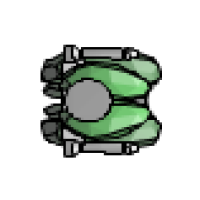
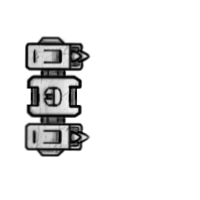
исправил ошибки квеста и нотификаций вывел интерфейс трюма в инерфейс склада на базе новые спрайты орудий

diff --git a/static/assets/components/chat/NotifyBlock.js b/static/assets/components/chat/NotifyBlock.js
@@ -2,19 +2,48 @@ function FillNotifyBlock(data) {
     let notifyBlock = document.getElementById('notifyBlock');
 
     for (let i in data.missions) {
-        addMission(notifyBlock, data.missions[i])
+        addMission(notifyBlock, data.missions[i], null, 0, data.missions[i].uuid)
+    }
+
+    for (let i in data.notifys) {
+        if (!document.getElementById(data.notifys[i].uuid)) {
+            if (data.notifys[i].event === "new") {
+                addMission(notifyBlock, data.notifys[i].data, "animation: new 1s linear 1", 1000, data.notifys[i].uuid)
+            }
+        }
     }
 }
 
-function addMission(notifyBlock, mission) {
+function addMission(notifyBlock, mission, animation, time, uuid) {
     notifyBlock.innerHTML += (
-        `<div onmouseover="document.getElementById('${mission.uuid}').style.visibility = 'visible'" onmouseout="document.getElementById('${mission.uuid}').style.visibility = 'hidden'">
-           <div class="missionNotify" id="${mission.uuid}">
+        `<div id="${uuid}" style="${animation}" onmouseover="document.getElementById('${mission.uuid}_tip').style.visibility = 'visible'"
+                                                onmouseout="document.getElementById('${mission.uuid}_tip').style.visibility = 'hidden'">
+                                                
+           <div class="missionNotify" id="${mission.uuid}_tip">
                 <h3>${mission.name}</h3>
                 <h4>Заказчик глава ${mission.start_base.name} из сектора ${mission.start_map.Name}</h4>
                 <p>${mission.start_dialog.pages[1].text}</p>
            </div> 
          </div>`
     );
-    console.log(mission)
+
+    setTimeout(function () {
+        document.getElementById(uuid).style.animation = "none"
+    }, time)
+}
+
+function newNotify(notify) {
+    if (notify && notify.name === "mission") {
+        if (notify.event === "new") {
+            addMission(document.getElementById('notifyBlock'), notify.data, "animation: new 1s linear 1", 1000, notify.uuid)
+        }
+        if (notify.event === "complete") {
+            if (document.getElementById(notify.uuid)) {
+                document.getElementById(notify.uuid).style.background = "#3dff00";
+                document.getElementById(notify.uuid).onclick = function () {
+                    this.remove()
+                }
+            }
+        }
+    }
 }

diff --git a/static/assets/components/inventory/create/OnlyStorage.js b/static/assets/components/inventory/create/OnlyStorage.js
@@ -1,35 +1,55 @@
 function OnlyStorage() {
     let storage = document.createElement("div");
     storage.id = "storage";
-    storage.style.position = "absolute";
-    storage.style.top = "70px";
-    storage.style.right = "15px";
-    storage.style.width = "187px";
-    document.body.appendChild(storage);
+    storage.style.width = "157px";
+    storage.style.padding = '0';
+    storage.style.margin = '4px 0px 0px';
 
+    let inventory = document.createElement("div");
+    inventory.id = "Inventory";
+    inventory.style.width = "157px";
+    inventory.style.padding = '0';
+    inventory.style.margin = '0';
+    inventory.style.float = 'left';
+
+    let wrapper = document.createElement('div');
+    wrapper.id = "wrapperInventoryAndStorage";
+    wrapper.appendChild(inventory);
+    wrapper.appendChild(storage);
+    document.body.appendChild(wrapper);
+
+    CreateInventory();
     CreateStorage();
     ConnectMarket();
 
-    $(storage).resizable({
-        alsoResize: "#inventoryStorage",
-        minHeight: 101,
-        minWidth: 187,
+    $(wrapper).resizable({
+        alsoResize: "#inventoryStorage, #storage",
+        minHeight: 248,
+        minWidth: 159,
         handles: "se",
     });
 
-    let buttons = CreateControlButtons("0", "61px", "-3px", "29px");
+    let buttons = CreateControlButtons("1px", "32px", "-3px", "29px");
 
-    $('#storage .InventoryHead').css("margin", "-3px 0px 3px 0px");
+    document.getElementById('utilButton').remove();
+    document.getElementById('destroyButton').remove();
+    document.getElementById('inventoryStorage').style.height = '58px';
+    document.getElementById('sizeInventoryInfo').style.margin = '8px 0 -4px 1px';
+
+
+    storage.style.height = '107px';
+
+    $('#storage .InventoryHead').css("margin", "1px 0px 3px");
+    $('#Inventory .InventoryHead').css("margin", "1px 0px 3px");
 
     $(buttons.move).mousedown(function (event) {
-        moveWindow(event, 'storage')
+        moveWindow(event, 'wrapperInventoryAndStorage')
     });
 
     $(buttons.close).mousedown(function () {
-        storage.remove();
+        wrapper.remove();
     });
 
-    storage.appendChild(buttons.move);
-    storage.appendChild(buttons.hide);
-    storage.appendChild(buttons.close);
+    inventory.appendChild(buttons.move);
+    inventory.appendChild(buttons.close);
 }

diff --git a/static/assets/css/all.css b/static/assets/css/all.css
@@ -49,8 +49,8 @@ input:hover {
 
 .ui-resizable-handle.ui-resizable-se.ui-icon.ui-icon-gripsmall-diagonal-se {
     z-index: -1 !important;
-    border-bottom: 2px solid #def4ff;
-    border-right: 2px solid #def4ff;
+    border-bottom: 3px solid #def4ff;
+    border-right: 3px solid #def4ff;
     border-bottom-right-radius: 12px;
     width: 30px;
     height: 30px;
@@ -58,6 +58,7 @@ input:hover {
     right: -3px;
     background-image: none;
     filter: drop-shadow(0px 0px 2px #000000);
+    pointer-events: auto;
 }
 
 .ui-resizable-handle.ui-resizable-ne {

diff --git a/static/assets/components/inventory/css/storage.css b/static/assets/components/inventory/css/storage.css
@@ -1,6 +1,6 @@
 #storage {
     border: 1px solid #25a0e1;
-    border-radius: 5px;
+    border-radius: 5px 5px 11px;
     box-shadow: 0 1px 2px rgba(0, 0, 0, .2);
     display: inline-block;
     vertical-align: top;
@@ -12,4 +12,14 @@
     float: right;
     padding: 5px 3px 0 2px;
     margin: 5px 10px 5px;
+    pointer-events: auto;
+}
+
+#wrapperInventoryAndStorage {
+    position: absolute;
+    top: 100px;
+    left: 661px;
+    width: 159px;
+    height: 248px;
+    pointer-events: none;
 }

diff --git a/static/assets/components/chat/chat.css b/static/assets/components/chat/chat.css
@@ -369,6 +369,17 @@
     margin-left: 3px;
 }
 
+@keyframes new {
+    from {
+        box-shadow: inset 0 0 1px 1px rgba(0, 0, 0, 0.5), 0 0 1px 1px rgba(0, 0, 0, 0.25);
+    }
+    50% {
+        box-shadow: inset 0 0 1px 1px rgba(31, 255, 0, 0.8), 0 0 30px 20px rgba(0, 255, 36, 0.6);
+    }
+    to {
+        box-shadow: inset 0 0 1px 1px rgba(0, 0, 0, 0.5), 0 0 1px 1px rgba(0, 0, 0, 0.25);
+    }
+}
 
 #notifyBlock > div:hover {
     box-shadow: 0 0 1px 1px rgba(236, 255, 167, 0.5);

diff --git a/static/assets/components/inventory/create/Create.js b/static/assets/components/inventory/create/Create.js
@@ -16,6 +16,9 @@ function CreateInventoryMenu(closeFunc, option) {
         document.getElementById("Inventory").remove();
     }
 
+    if (document.getElementById('wrapperInventoryAndStorage'))
+        document.getElementById('wrapperInventoryAndStorage').remove();
+
     if (option === 'inventory') {
         let inventory = document.createElement("div");
         inventory.id = "Inventory";

diff --git a/static/assets/components/inventory/css/inventory.css b/static/assets/components/inventory/css/inventory.css
@@ -1,6 +1,6 @@
 #Inventory {
     border: 1px solid #25a0e1;
-    border-radius: 10px;
+    border-radius: 5px;
     -webkit-box-shadow: 0 1px 2px rgba(0,0,0,.2);
     box-shadow: 0 1px 2px rgba(0,0,0,.2);
     display: inline-block;
@@ -14,6 +14,7 @@
     user-select: none;
     padding: 5px 3px 0 2px;
     float: right;
+    pointer-events: auto;
 }
 
 .inventoryStorage {

diff --git a/static/lobby/js/DepartmentOfEmployment/Fill.js b/static/lobby/js/DepartmentOfEmployment/Fill.js
@@ -1,5 +1,8 @@
 function FillDepartment(dialogPage, action, mission) {
     console.log(dialogPage)
+    console.log(action)
+    console.log(mission);
+
     DialogAction(action);
 
     if ((action === "close" || action === "start_training" || action === "miss_training") && document.getElementById('DepartmentOfEmployment')) {

diff --git a/static/assets/components/chat/Chat.js b/static/assets/components/chat/Chat.js
@@ -66,6 +66,10 @@ function ChatReader(data) {
         updateUsers(data.group, data.users)
     }
 
+    if (data.event === "newNotify") {
+        newNotify(data.notify)
+    }
+
     if (data.event === "OpenLocalChat") {
         //systemMessage("Вы входите на территорию" + data.group.name);
     }

diff --git a/static/assets/components/uiComponents/dialogs/Action.js b/static/assets/components/uiComponents/dialogs/Action.js
@@ -2,4 +2,7 @@ function DialogAction(action) {
     if (action === "start_training") {
         Training(1)
     }
+    if (action === "get_reward") {
+        // todo обновить инвентарь и сторедж
+    }
 }

diff --git a/src/webSocket/chat/chatPool.go b/src/webSocket/chat/chatPool.go
@@ -27,6 +27,8 @@ type chatMessage struct {
 	User        *player.ShortUserInfo       `json:"user"`
 	Local       bool                        `json:"local"`
 	Missions    map[string]*mission.Mission `json:"missions"`
+	Notify      *player.Notify              `json:"notify"`
+	Notifys     map[string]*player.Notify   `json:"notifys"`
 }
 
 func AddNewUser(ws *websocket.Conn, login string, id int) {
@@ -54,23 +56,23 @@ func Reader(ws *websocket.Conn) {
 			if msg.Event == "OpenChat" {
 				group, _ := getLocalChat(client)
 				SendMessage(msg.Event, msg.Message, client.GetID(), 0, group, chats.Groups.GetAllUserGroups(client),
-					nil, false, client.GetShortUserInfo(false, true), client.Missions)
+					nil, false, client.GetShortUserInfo(false, true), client.Missions, nil, client.NotifyQueue)
 			}
 
 			if msg.Event == "GetAllGroups" {
 				SendMessage(msg.Event, msg.Message, client.GetID(), 0, chats.Groups.GetGroup(msg.GroupID),
-					chats.Groups.GetAllGroups(), nil, false, nil, nil)
+					chats.Groups.GetAllGroups(), nil, false, nil, nil, nil, nil)
 			}
 
 			if msg.Event == "ChangeGroup" {
 				if chats.Groups.CheckUserSubscribe(msg.GroupID, client) {
 					group := chats.Groups.GetGroup(msg.GroupID)
 					SendMessage(msg.Event, msg.Message, client.GetID(), 0, group, nil,
-						getUsersInChatGroup(group, true), false, nil, nil)
+						getUsersInChatGroup(group, true), false, nil, nil, nil, nil)
 				} else {
 					group, _ := getLocalChat(client)
 					SendMessage(msg.Event, msg.Message, client.GetID(), 0, group, nil,
-						getUsersInChatGroup(group, false), false, nil, nil)
+						getUsersInChatGroup(group, false), false, nil, nil, nil, nil)
 				}
 
 			}
@@ -78,10 +80,10 @@ func Reader(ws *websocket.Conn) {
 			if msg.Event == "SubscribeGroup" {
 				group := chats.Groups.GetGroup(msg.GroupID)
 				if chats.Groups.SubscribeGroup(msg.GroupID, client, msg.Password) {
-					SendMessage("OpenChat", msg.Message, client.GetID(), 0,
-						chats.Groups.GetGroup(msg.GroupID), chats.Groups.GetAllUserGroups(client), nil, false, nil, nil)
+					SendMessage("OpenChat", msg.Message, client.GetID(), 0, chats.Groups.GetGroup(msg.GroupID),
+						chats.Groups.GetAllUserGroups(client), nil, false, nil, nil, nil, nil)
 					SendMessage("UpdateUsers", nil, 0, msg.GroupID, group, nil,
-						getUsersInChatGroup(group, true), false, nil, nil)
+						getUsersInChatGroup(group, true), false, nil, nil, nil, nil)
 				}
 			}
 
@@ -90,9 +92,9 @@ func Reader(ws *websocket.Conn) {
 				if group != nil {
 					chats.Groups.Unsubscribe(msg.GroupID, client)
 					SendMessage("UpdateUsers", nil, 0, msg.GroupID, group, nil,
-						getUsersInChatGroup(group, true), false, nil, nil)
+						getUsersInChatGroup(group, true), false, nil, nil, nil, nil)
 					SendMessage("OpenChat", msg.Message, client.GetID(), 0, chats.Groups.GetGroup(msg.GroupID),
-						chats.Groups.GetAllUserGroups(client), nil, false, nil, nil)
+						chats.Groups.GetAllUserGroups(client), nil, false, nil, nil, nil, nil)
 				}
 			}
 
@@ -108,7 +110,7 @@ func Reader(ws *websocket.Conn) {
 					chatMessage := chatGroup.Message{UserName: client.GetLogin(), AvatarIcon: client.AvatarIcon, Message: msg.MessageText, Time: time.Now().UTC()}
 					group.History = append(group.History, &chatMessage)
 
-					SendMessage(msg.Event, &chatMessage, 0, msg.GroupID, nil, nil, nil, false, nil, nil)
+					SendMessage(msg.Event, &chatMessage, 0, msg.GroupID, nil, nil, nil, false, nil, nil, nil, nil)
 				} else {
 					// если msg.GroupID == 0 то это сообщение в локальный чат
 					group, _ := getLocalChat(client)
@@ -116,15 +118,17 @@ func Reader(ws *websocket.Conn) {
 					chatMessage := chatGroup.Message{UserName: client.GetLogin(), AvatarIcon: client.AvatarIcon, Message: msg.MessageText, Time: time.Now().UTC()}
 					group.History = append(group.History, &chatMessage)
 
-					SendMessage(msg.Event, &chatMessage, 0, msg.GroupID, group, nil, nil, true, nil, nil)
+					SendMessage(msg.Event, &chatMessage, 0, msg.GroupID, group, nil, nil, true, nil, nil, nil, nil)
 				}
 			}
 		}
 	}
 }
 
+//todo рефакторинг....
 func SendMessage(event string, senderMessage *chatGroup.Message, userID, GroupID int, group *chatGroup.Group,
-	groups map[int]*chatGroup.Group, users []*player.ShortUserInfo, local bool, user *player.ShortUserInfo, missions map[string]*mission.Mission) {
+	groups map[int]*chatGroup.Group, users []*player.ShortUserInfo, local bool, user *player.ShortUserInfo,
+	missions map[string]*mission.Mission, notify *player.Notify, notifys map[string]*player.Notify) {
 
 	chatPipe <- chatMessage{
 		Event:    event,
@@ -137,6 +141,8 @@ func SendMessage(event string, senderMessage *chatGroup.Message, userID, GroupID
 		Local:    local,
 		User:     user,
 		Missions: missions,
+		Notify:   notify,
+		Notifys:  notifys,
 	}
 }
 

diff --git a/src/webSocket/chat/notifay_worker.go b/src/webSocket/chat/notifay_worker.go
@@ -4,6 +4,7 @@ import (
 	"github.com/TrashPony/Veliri/src/mechanics/chat"
 	"github.com/TrashPony/Veliri/src/mechanics/gameObjects/player"
 	"github.com/gorilla/websocket"
+	"time"
 )
 
 // бот который оповещает игроков об изменениях на них панеле новостей и заметок
@@ -11,13 +12,29 @@ import (
 // на панеле отображаются активные задания
 // сюда падают нотификация если была совершена сделка торговли или завершился крафт
 
-func NotifayWorker() {
-	users, mx := chat.Clients.GetAllConnects()
-	// делаем копию карты что бы не вызвать дедлок или рантайм ошибку конкурентного чтения записи.
-	fakeUsers := make(map[*websocket.Conn]*player.Player)
-	for key, value := range users {
-		fakeUsers[key] = value
-	}
+func NotifyWorker() {
+	for {
+		users, mx := chat.Clients.GetAllConnects()
+		// делаем копию карты что бы не вызвать дедлок или рантайм ошибку конкурентного чтения записи.
+		fakeUsers := make(map[*websocket.Conn]*player.Player)
+		for key, value := range users {
+			fakeUsers[key] = value
+		}
+		mx.Unlock()
 
-	mx.Unlock()
+		for _, user := range fakeUsers {
+			for _, notify := range user.NotifyQueue {
+				if notify != nil && !notify.Send {
+					SendMessage("newNotify", nil, user.GetID(), 0, nil, nil,
+						nil, false, nil, nil, notify, nil)
+					notify.Send = true
+
+					if notify.Name == "mission" && notify.Event == "complete" {
+						delete(user.NotifyQueue, notify.UUID)
+					}
+				}
+			}
+		}
+		time.Sleep(time.Second)
+	}
 }
